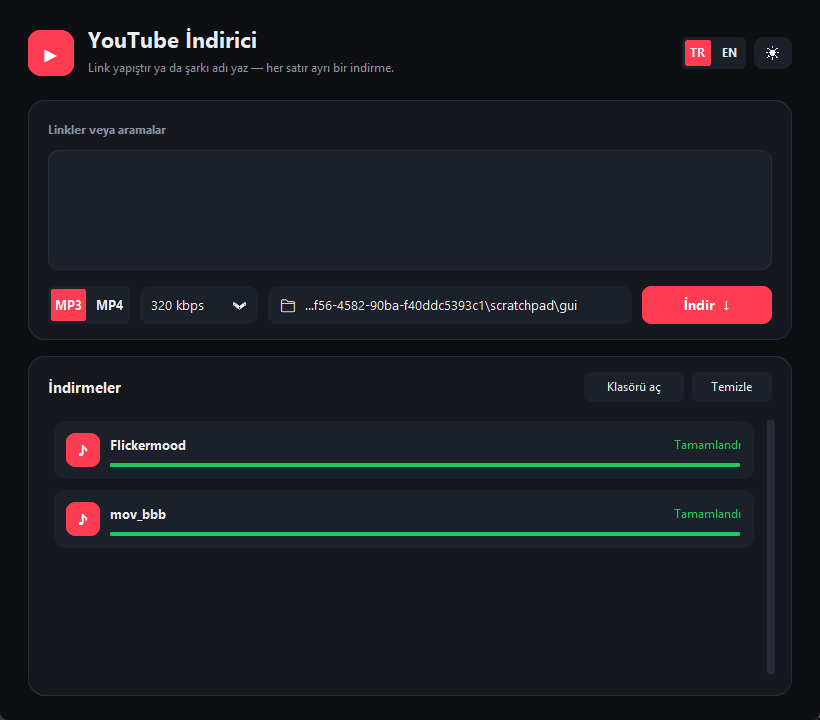
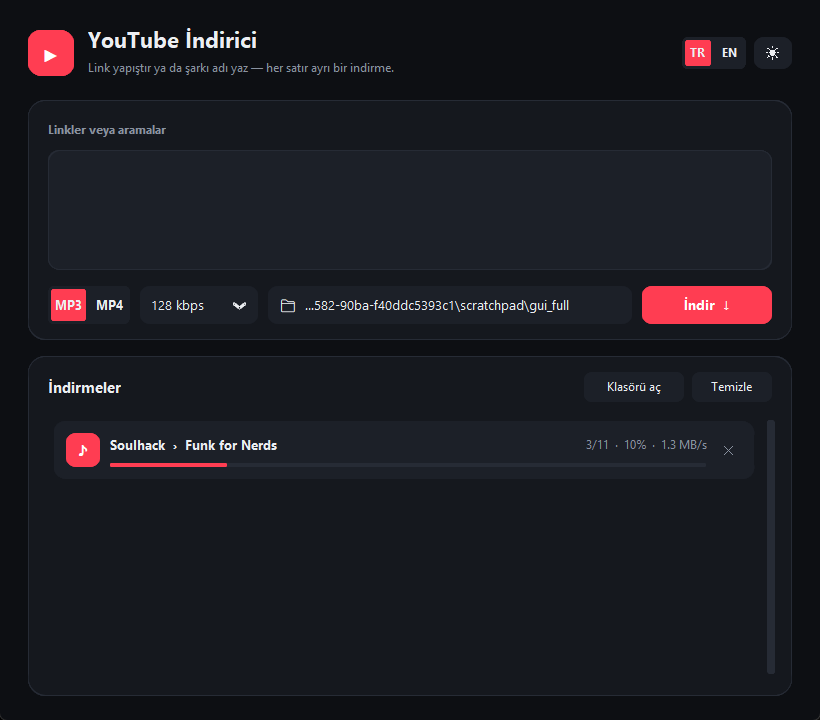
Playlist sayacı ve durdurma butonu
- Playlist: liste adı, toplam şarkı sayısı ve sıradaki şarkı (3/11) gösterilir; ilerleme çubuğu tüm listeyi kapsar
- İndirilemeyen şarkı listeyi durdurmaz; sonuçta 10/11 indirildi gibi özet çıkar
- Her satırda ✕: sıradakini kuyruktan çıkarır, devam edeni (playlist dahil) keser
- README ve ekran görüntüsü güncellendi

diff --git a/app.py b/app.py
@@ -30,9 +30,11 @@ TEXT = {
         "clear": "Temizle",
         "pick": "İndirme klasörünü seç",
         "waiting": "Sırada",
-        "downloading": "{p}%  ·  {s}",
-        "processing": "Dönüştürülüyor…",
-        "done": "Tamamlandı",
+        "downloading": "{c}{p}%  ·  {s}",
+        "processing": "{c}Dönüştürülüyor…",
+        "done": "{c}Tamamlandı",
+        "partial": "{ok}/{n} indirildi",
+        "cancelled": "Durduruldu",
         "error": "Hata: {e}",
         "notfound": "Bulunamadı",
     },
@@ -47,9 +49,11 @@ TEXT = {
         "clear": "Clear",
         "pick": "Choose download folder",
         "waiting": "Queued",
-        "downloading": "{p}%  ·  {s}",
-        "processing": "Converting…",
-        "done": "Done",
+        "downloading": "{c}{p}%  ·  {s}",
+        "processing": "{c}Converting…",
+        "done": "{c}Done",
+        "partial": "{ok}/{n} downloaded",
+        "cancelled": "Stopped",
         "error": "Error: {e}",
         "notfound": "Not found",
     },
@@ -63,7 +67,9 @@ BORDER = ("#E2E5EB", "#262B35")
 FG = ("#111318", "#ECEEF2")
 MUTED = ("#6B7280", "#8A92A0")
 ACCENT, ACCENT_HOVER = "#FF3D52", "#E52E43"
-OK, BAD = "#22C55E", "#EF4444"
+OK, BAD, WARN = "#22C55E", "#EF4444", "#F59E0B"
+STATE_COLOR = {"done": OK, "error": BAD, "notfound": BAD, "partial": WARN, "cancelled": MUTED}
+FINAL = tuple(STATE_COLOR)  # bu durumlardaki satırlar bitmiştir
 FONT = "Segoe UI" if sys.platform == "win32" else None
 
 
@@ -89,11 +95,28 @@ def clean_settings(saved):
     return {k: v for k, v in saved.items() if k in valid and valid[k](v)}
 
 
+def clean_error(msg):
+    return re.sub(r"^ERROR:\s*(\[\w+\]\s*)?(Got error:\s*)?", "", str(msg)).split("\n")[0][:80]
+
+
+class ErrorLog:
+    """yt-dlp logger'ı: ignoreerrors açıkken hata istisna olmaz, son hatayı burada tutarız."""
+    err = None
+
+    def debug(self, msg):
+        pass
+
+    info = warning = debug
+
+    def error(self, msg):
+        self.err = msg
+
+
 def ffmpeg_path():
     return shutil.which("ffmpeg") or __import__("imageio_ffmpeg").get_ffmpeg_exe()
 
 
-def build_opts(fmt, quality, folder, hook):
+def build_opts(fmt, quality, folder, hook, logger=None):
     opts = {
         # ara dosyalar (parçalar, kapak) geçici klasörde kalır; klasöre yalnız bitmiş dosya taşınır
         "paths": {"home": folder, "temp": os.path.join(tempfile.gettempdir(), "yt-mp3-mp4")},
@@ -101,12 +124,15 @@ def build_opts(fmt, quality, folder, hook):
         "ffmpeg_location": ffmpeg_path(),
         # YouTube imza çözümü için JS çalışma ortamı gerekir; hangisi kuruluysa o kullanılır
         "js_runtimes": {"deno": {}, "node": {}, "bun": {}},
-        "noplaylist": True,
+        "noplaylist": True,  # playlist içinden paylaşılan şarkı linki tek şarkı indirir
+        "ignoreerrors": True,  # listedeki silinmiş/gizli video tüm listeyi durdurmasın
+        "logger": logger,
         "quiet": True,
         "no_warnings": True,
         "noprogress": True,
         "progress_hooks": [hook],
         "postprocessor_hooks": [hook],
+        "post_hooks": [hook],  # her dosya bitince yolu (str) ile çağrılır
     }
     if fmt == "MP3":
         opts |= {
@@ -139,6 +165,7 @@ class Row(ctk.CTkFrame):
         super().__init__(master, fg_color=FIELD, corner_radius=12)
         self.app = app
         self.status = ("waiting", {})
+        self.cancelled = False  # işçi thread'i okur; ✕ ile True olur
         self.grid_columnconfigure(1, weight=1)
         badge = ctk.CTkLabel(self, text="♪" if fmt == "MP3" else "▶", width=34, height=34, corner_radius=10,
                              fg_color=ACCENT, text_color="white", font=ctk.CTkFont(FONT, 15, "bold"))
@@ -146,28 +173,42 @@ class Row(ctk.CTkFrame):
         self.title = ctk.CTkLabel(self, text=query, anchor="w", text_color=FG, font=ctk.CTkFont(FONT, 13, "bold"))
         self.title.grid(row=0, column=1, sticky="ew", pady=(10, 0))
         self.info = ctk.CTkLabel(self, text="", anchor="e", text_color=MUTED, font=ctk.CTkFont(FONT, 12))
-        self.info.grid(row=0, column=2, padx=(8, 14), pady=(10, 0))
+        self.info.grid(row=0, column=2, padx=(8, 6), pady=(10, 0))
+        self.stop = ctk.CTkButton(self, text="✕", width=30, height=30, corner_radius=8, fg_color="transparent",
+                                  hover_color=BORDER, text_color=MUTED, font=ctk.CTkFont(FONT, 13),
+                                  command=self.cancel)
+        self.stop.grid(row=0, column=3, rowspan=2, padx=(0, 10))
         self.bar = ctk.CTkProgressBar(self, height=5, corner_radius=3, progress_color=ACCENT, fg_color=BORDER)
         self.bar.set(0)
-        self.bar.grid(row=1, column=1, columnspan=2, sticky="ew", padx=(0, 14), pady=(4, 12))
+        self.bar.grid(row=1, column=1, columnspan=2, sticky="ew", padx=(0, 6), pady=(4, 12))
         self.render()
 
     def set_title(self, title):
         self.title.configure(text=title if len(title) <= 70 else title[:67] + "…")
 
+    def cancel(self):
+        self.cancelled = True
+        if self.status[0] == "waiting":
+            self.update_status("cancelled")
+        self.stop.configure(state="disabled")
+
     def update_status(self, key, **kw):
+        if self.status[0] in FINAL:  # durdurulan satıra geç gelen olaylar
+            return
         self.status = (key, kw)
-        if key == "downloading":
-            self.bar.set(kw["p"] / 100)
-        elif key in ("processing", "done", "error", "notfound"):
+        if "b" in kw:
+            self.bar.set(kw["b"])
+        elif key in FINAL:
             self.bar.set(1)
-        self.bar.configure(progress_color={"done": OK, "error": BAD, "notfound": BAD}.get(key, ACCENT))
+        if key in FINAL:
+            self.stop.grid_remove()
+        self.bar.configure(progress_color=STATE_COLOR.get(key, ACCENT))
         self.render()
 
     def render(self):
         key, kw = self.status
         self.info.configure(text=self.app.t(key).format(**kw),
-                            text_color={"done": OK, "error": BAD, "notfound": BAD}.get(key, MUTED))
+                            text_color=STATE_COLOR.get(key, MUTED))
 
 
 class App(ctk.CTk):
@@ -334,7 +375,7 @@ class App(ctk.CTk):
             subprocess.Popen(["open" if sys.platform == "darwin" else "xdg-open", path])
 
     def clear(self):
-        for row in [r for r in self.rows if r.status[0] in ("done", "error", "notfound")]:
+        for row in [r for r in self.rows if r.status[0] in FINAL]:
             row.destroy()
             self.rows.remove(row)
         if not self.rows:
@@ -361,32 +402,60 @@ class App(ctk.CTk):
         # ponytail: tek işçi, sırayla indirir; paralel indirme gerekirse birden çok thread başlat
         while True:
             row, target, fmt, quality, folder = self.jobs.get()
+            if row.cancelled:
+                self.events.put((row, "cancelled", {}))
+                continue
+            st = {"title": None, "any": False, "ok": 0, "n": 1, "i": 1}
+            log = ErrorLog()
 
-            seen = {"title": None, "any": False}
-
-            def hook(d, row=row, seen=seen):
-                seen["any"] = True
-                title = (d.get("info_dict") or {}).get("title")
-                if title and title != seen["title"]:
-                    seen["title"] = title
+            def hook(d, row=row, st=st):
+                if row.cancelled:
+                    raise yt_dlp.utils.DownloadCancelled()
+                if isinstance(d, str):  # post_hooks: bitmiş dosyanın yolu, klasöre ulaştı
+                    st["ok"] += 1
+                    return
+                st["any"] = True
+                info = d.get("info_dict") or {}
+                st["n"] = info.get("n_entries") or st["n"]
+                st["i"] = info.get("playlist_index") or st["i"]
+                n, i = st["n"], st["i"]
+                c = f"{i}/{n}  ·  " if n > 1 else ""
+                title = info.get("title")
+                if title and n > 1 and info.get("playlist_title"):
+                    title = f"{info['playlist_title']}  ›  {title}"
+                if title and title != st["title"]:
+                    st["title"] = title
                     self.events.put((row, "title", {"title": title}))
                 if "postprocessor" in d:  # dönüştürme / birleştirme adımı
                     if d["status"] == "started":
-                        self.events.put((row, "processing", {}))
+                        self.events.put((row, "processing", {"c": c, "b": i / n}))
                 elif d["status"] == "downloading":
-                    # ponytail: MP4'te video ve ses ayrı iner, çubuk ses için 0'dan tekrar başlar
+                    # ponytail: MP4'te video ve ses ayrı iner, şarkı içi yüzde ses için 0'dan tekrar başlar
                     total = d.get("total_bytes") or d.get("total_bytes_estimate") or 0
-                    p = int(d.get("downloaded_bytes", 0) * 100 / total) if total else 0
-                    self.events.put((row, "downloading", {"p": min(p, 100), "s": human_speed(d.get("speed"))}))
+                    p = min(int(d.get("downloaded_bytes", 0) * 100 / total), 100) if total else 0
+                    self.events.put((row, "downloading",
+                                     {"c": c, "p": p, "s": human_speed(d.get("speed")), "b": (i - 1 + p / 100) / n}))
 
             try:
                 os.makedirs(folder, exist_ok=True)
-                with yt_dlp.YoutubeDL(build_opts(fmt, quality, folder, hook)) as ydl:
+                with yt_dlp.YoutubeDL(build_opts(fmt, quality, folder, hook, log)) as ydl:
                     ydl.download([target])
-                self.events.put((row, "done" if seen["any"] else "notfound", {}))
-            except Exception as e:  # yt-dlp hatası satırda gösterilir, uygulama çökmez
-                msg = re.sub(r"^ERROR:\s*(\[\w+\]\s*)?(Got error:\s*)?", "", str(e)).split("\n")[0]
-                self.events.put((row, "error", {"e": msg[:80]}))
+                ok, n = st["ok"], st["n"]
+                if row.cancelled:
+                    self.events.put((row, "cancelled", {}))
+                elif ok and ok >= n:
+                    self.events.put((row, "done", {"c": f"{n}/{n}  ·  " if n > 1 else ""}))
+                elif ok or (n > 1 and st["any"]):
+                    self.events.put((row, "partial", {"ok": ok, "n": n}))
+                elif log.err:
+                    self.events.put((row, "error", {"e": clean_error(log.err)}))
+                else:
+                    self.events.put((row, "notfound", {}))
+            except Exception as e:  # durdurma ya da yt-dlp hatası satırda gösterilir, uygulama çökmez
+                if row.cancelled:
+                    self.events.put((row, "cancelled", {}))
+                else:
+                    self.events.put((row, "error", {"e": clean_error(e)}))
 
     def poll(self):
         while not self.events.empty():

diff --git a/README.md b/README.md
@@ -10,6 +10,8 @@ A clean, modern desktop app for downloading YouTube as MP3 / MP4.
 ### Özellikler
 - **Link ya da isim** — her satıra bir link veya şarkı adı yaz; link olmayanlar YouTube'da aranır, ilk sonuç indirilir.
 - **Toplu indirme kuyruğu** — her satırın kendi ilerleme çubuğu, hızı ve durumu var; indirme sırasında arayüz donmaz.
+- **Playlist desteği** — listenin adı, toplam şarkı sayısı ve kaçıncı şarkıda olduğu (ör. `3/11`) görünür; ilerleme çubuğu tüm listeyi gösterir. İndirilemeyen bir şarkı listeyi durdurmaz, sonunda `10/11 indirildi` gibi özet çıkar.
+- **Durdur (✕)** — sıradaki indirmeyi kuyruktan çıkarır, devam eden indirmeyi (playlist dahil) anında keser.
 - **MP3:** 320 / 192 / 128 kbps, **kapak resmi, başlık ve sanatçı bilgisi dosyaya gömülür.**
 - **MP4:** Max / 1080p / 720p / 480p, her oynatıcıda açılan mp4 tercih edilir.
 - Açık / koyu tema, Türkçe / İngilizce arayüz.
@@ -38,6 +40,8 @@ python app.py
 ### Features
 - **Link or name** — one link or song name per line; anything that isn't a link is searched on YouTube and the first result is downloaded.
 - **Batch queue** — each line gets its own progress bar, speed and status; the UI never freezes.
+- **Playlists** — shows the playlist name, total track count and current position (e.g. `3/11`); the bar tracks the whole list. A failing track does not stop the list; you get a summary like `10/11 downloaded`.
+- **Stop (✕)** — removes a queued download or instantly stops a running one (playlists included).
 - **MP3:** 320 / 192 / 128 kbps with **embedded cover art, title and artist.**
 - **MP4:** Max / 1080p / 720p / 480p, preferring mp4 streams that play everywhere.
 - Light / dark theme, Turkish / English UI.
